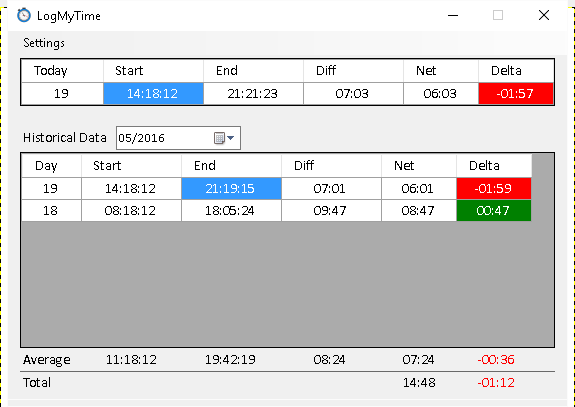
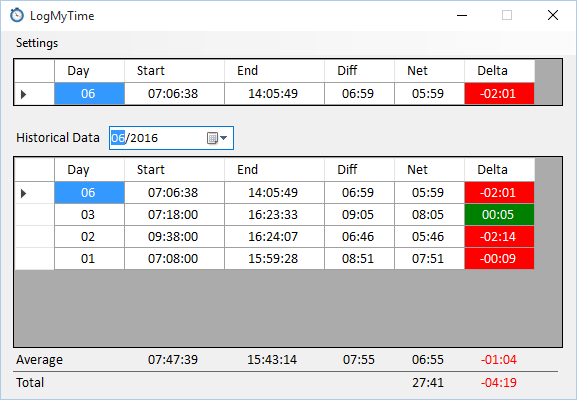
Re-adjusted mainscreen components layout. 'Add comments' feature fully functional

diff --git a/LogMyTime/View/Main.Designer.cs b/LogMyTime/View/Main.Designer.cs
@@ -47,7 +47,6 @@ namespace LogMyTime
             this.copyCellToolStripMenuItem = new System.Windows.Forms.ToolStripMenuItem();
             this.copyRowToolStripMenuItem = new System.Windows.Forms.ToolStripMenuItem();
             this.copyTableToolStripMenuItem = new System.Windows.Forms.ToolStripMenuItem();
-            this.clCommentReport = new System.Windows.Forms.DataGridViewTextBoxColumn();
             this.monthYearPicker = new System.Windows.Forms.DateTimePicker();
             this.lblHistoricalDataCaption = new System.Windows.Forms.Label();
             this.mainMenu = new System.Windows.Forms.MenuStrip();
@@ -70,6 +69,14 @@ namespace LogMyTime
             this.clDiffReport = new System.Windows.Forms.DataGridViewTextBoxColumn();
             this.clNetReport = new System.Windows.Forms.DataGridViewTextBoxColumn();
             this.clDeltaReport = new System.Windows.Forms.DataGridViewTextBoxColumn();
+            this.clCommentReport = new System.Windows.Forms.DataGridViewTextBoxColumn();
+            this.clToday = new System.Windows.Forms.DataGridViewTextBoxColumn();
+            this.clStart = new System.Windows.Forms.DataGridViewTextBoxColumn();
+            this.clEnd = new System.Windows.Forms.DataGridViewTextBoxColumn();
+            this.clDiff = new System.Windows.Forms.DataGridViewTextBoxColumn();
+            this.clNet = new System.Windows.Forms.DataGridViewTextBoxColumn();
+            this.clDelta = new System.Windows.Forms.DataGridViewTextBoxColumn();
+            this.clComment = new System.Windows.Forms.DataGridViewTextBoxColumn();
             this.popupMenu.SuspendLayout();
             ((System.ComponentModel.ISupportInitialize)(this.gridReport)).BeginInit();
             this.clipboardMenu.SuspendLayout();
@@ -154,21 +161,21 @@ namespace LogMyTime
             dataGridViewCellStyle2.SelectionForeColor = System.Drawing.SystemColors.HighlightText;
             dataGridViewCellStyle2.WrapMode = System.Windows.Forms.DataGridViewTriState.False;
             this.gridReport.DefaultCellStyle = dataGridViewCellStyle2;
-            this.gridReport.Location = new System.Drawing.Point(12, 121);
+            this.gridReport.Location = new System.Drawing.Point(12, 125);
             this.gridReport.MultiSelect = false;
             this.gridReport.Name = "gridReport";
             this.gridReport.ReadOnly = true;
             this.gridReport.RowHeadersWidthSizeMode = System.Windows.Forms.DataGridViewRowHeadersWidthSizeMode.DisableResizing;
             this.gridReport.ScrollBars = System.Windows.Forms.ScrollBars.Vertical;
             this.gridReport.SelectionMode = System.Windows.Forms.DataGridViewSelectionMode.CellSelect;
-            this.gridReport.Size = new System.Drawing.Size(576, 196);
+            this.gridReport.Size = new System.Drawing.Size(550, 192);
             this.gridReport.TabIndex = 15;
             this.gridReport.CellDoubleClick += new System.Windows.Forms.DataGridViewCellEventHandler(this.gridReport_CellDoubleClick);
             this.gridReport.CellFormatting += new System.Windows.Forms.DataGridViewCellFormattingEventHandler(this.gridReport_CellFormatting);
             this.gridReport.RowHeaderMouseClick += new System.Windows.Forms.DataGridViewCellMouseEventHandler(this.gridReport_RowHeaderMouseClick);
-            this.gridReport.KeyUp += new System.Windows.Forms.KeyEventHandler(this.gridReport_KeyUp);
             this.gridReport.RowHeaderMouseDoubleClick += new System.Windows.Forms.DataGridViewCellMouseEventHandler(this.gridReport_RowHeaderMouseDoubleClick);
             this.gridReport.RowPostPaint += new System.Windows.Forms.DataGridViewRowPostPaintEventHandler(this.gridReport_RowPostPaint);
+            this.gridReport.KeyUp += new System.Windows.Forms.KeyEventHandler(this.gridReport_KeyUp);
             // 
             // clipboardMenu
             // 
@@ -200,14 +207,6 @@ namespace LogMyTime
             this.copyTableToolStripMenuItem.Text = "Copy Table";
             this.copyTableToolStripMenuItem.Click += new System.EventHandler(this.copyTableToolStripMenuItem_Click);
             // 
-            // clCommentReport
-            // 
-            this.clCommentReport.DataPropertyName = "Comment";
-            this.clCommentReport.HeaderText = "Comment";
-            this.clCommentReport.Name = "clCommentReport";
-            this.clCommentReport.ReadOnly = true;
-            this.clCommentReport.Visible = false;
-            // 
             // monthYearPicker
             // 
             this.monthYearPicker.CustomFormat = "MM/yyyy";
@@ -233,7 +232,7 @@ namespace LogMyTime
             this.settingsToolStripMenuItem});
             this.mainMenu.Location = new System.Drawing.Point(0, 0);
             this.mainMenu.Name = "mainMenu";
-            this.mainMenu.Size = new System.Drawing.Size(601, 24);
+            this.mainMenu.Size = new System.Drawing.Size(575, 24);
             this.mainMenu.TabIndex = 21;
             this.mainMenu.Text = "menuStrip1";
             // 
@@ -262,7 +261,7 @@ namespace LogMyTime
             this.gridToday.ColumnHeadersDefaultCellStyle = dataGridViewCellStyle3;
             this.gridToday.ColumnHeadersHeightSizeMode = System.Windows.Forms.DataGridViewColumnHeadersHeightSizeMode.AutoSize;
             this.gridToday.Columns.AddRange(new System.Windows.Forms.DataGridViewColumn[] {
-            this.clDay,
+            this.clToday,
             this.clStart,
             this.clEnd,
             this.clDiff,
@@ -285,7 +284,7 @@ namespace LogMyTime
             this.gridToday.RowTemplate.ReadOnly = true;
             this.gridToday.ScrollBars = System.Windows.Forms.ScrollBars.None;
             this.gridToday.SelectionMode = System.Windows.Forms.DataGridViewSelectionMode.CellSelect;
-            this.gridToday.Size = new System.Drawing.Size(576, 48);
+            this.gridToday.Size = new System.Drawing.Size(550, 48);
             this.gridToday.TabIndex = 24;
             this.gridToday.CellDoubleClick += new System.Windows.Forms.DataGridViewCellEventHandler(this.gridToday_CellDoubleClick);
             this.gridToday.CellFormatting += new System.Windows.Forms.DataGridViewCellFormattingEventHandler(this.gridToday_CellFormatting);
@@ -318,13 +317,13 @@ namespace LogMyTime
             this.panel1.Location = new System.Drawing.Point(12, 340);
             this.panel1.Margin = new System.Windows.Forms.Padding(1);
             this.panel1.Name = "panel1";
-            this.panel1.Size = new System.Drawing.Size(535, 1);
+            this.panel1.Size = new System.Drawing.Size(545, 1);
             this.panel1.TabIndex = 27;
             // 
             // lblAvgStart
             // 
             this.lblAvgStart.AutoSize = true;
-            this.lblAvgStart.Location = new System.Drawing.Point(95, 320);
+            this.lblAvgStart.Location = new System.Drawing.Point(144, 320);
             this.lblAvgStart.Name = "lblAvgStart";
             this.lblAvgStart.Size = new System.Drawing.Size(58, 17);
             this.lblAvgStart.TabIndex = 28;
@@ -334,7 +333,7 @@ namespace LogMyTime
             // lblAvgEnd
             // 
             this.lblAvgEnd.AutoSize = true;
-            this.lblAvgEnd.Location = new System.Drawing.Point(194, 320);
+            this.lblAvgEnd.Location = new System.Drawing.Point(243, 320);
             this.lblAvgEnd.Name = "lblAvgEnd";
             this.lblAvgEnd.Size = new System.Drawing.Size(58, 17);
             this.lblAvgEnd.TabIndex = 29;
@@ -344,7 +343,7 @@ namespace LogMyTime
             // lblAvgDiff
             // 
             this.lblAvgDiff.AutoSize = true;
-            this.lblAvgDiff.Location = new System.Drawing.Point(303, 320);
+            this.lblAvgDiff.Location = new System.Drawing.Point(339, 320);
             this.lblAvgDiff.Name = "lblAvgDiff";
             this.lblAvgDiff.Size = new System.Drawing.Size(40, 17);
             this.lblAvgDiff.TabIndex = 31;
@@ -354,7 +353,7 @@ namespace LogMyTime
             // lblAvgNet
             // 
             this.lblAvgNet.AutoSize = true;
-            this.lblAvgNet.Location = new System.Drawing.Point(392, 320);
+            this.lblAvgNet.Location = new System.Drawing.Point(408, 320);
             this.lblAvgNet.Name = "lblAvgNet";
             this.lblAvgNet.Size = new System.Drawing.Size(40, 17);
             this.lblAvgNet.TabIndex = 32;
@@ -364,7 +363,7 @@ namespace LogMyTime
             // lblAvgDelta
             // 
             this.lblAvgDelta.AutoSize = true;
-            this.lblAvgDelta.Location = new System.Drawing.Point(467, 320);
+            this.lblAvgDelta.Location = new System.Drawing.Point(477, 320);
             this.lblAvgDelta.Name = "lblAvgDelta";
             this.lblAvgDelta.Size = new System.Drawing.Size(40, 17);
             this.lblAvgDelta.TabIndex = 33;
@@ -374,7 +373,7 @@ namespace LogMyTime
             // lblTotalNet
             // 
             this.lblTotalNet.AutoSize = true;
-            this.lblTotalNet.Location = new System.Drawing.Point(392, 343);
+            this.lblTotalNet.Location = new System.Drawing.Point(408, 343);
             this.lblTotalNet.Name = "lblTotalNet";
             this.lblTotalNet.Size = new System.Drawing.Size(40, 17);
             this.lblTotalNet.TabIndex = 34;
@@ -384,7 +383,7 @@ namespace LogMyTime
             // lblTotalDelta
             // 
             this.lblTotalDelta.AutoSize = true;
-            this.lblTotalDelta.Location = new System.Drawing.Point(467, 343);
+            this.lblTotalDelta.Location = new System.Drawing.Point(477, 343);
             this.lblTotalDelta.Name = "lblTotalDelta";
             this.lblTotalDelta.Size = new System.Drawing.Size(40, 17);
             this.lblTotalDelta.TabIndex = 35;
@@ -408,7 +407,7 @@ namespace LogMyTime
             this.clDayReport.ReadOnly = true;
             this.clDayReport.Resizable = System.Windows.Forms.DataGridViewTriState.False;
             this.clDayReport.SortMode = System.Windows.Forms.DataGridViewColumnSortMode.NotSortable;
-            this.clDayReport.Width = 60;
+            this.clDayReport.Width = 70;
             // 
             // clStartReport
             // 
@@ -436,6 +435,7 @@ namespace LogMyTime
             this.clDiffReport.ReadOnly = true;
             this.clDiffReport.Resizable = System.Windows.Forms.DataGridViewTriState.False;
             this.clDiffReport.SortMode = System.Windows.Forms.DataGridViewColumnSortMode.NotSortable;
+            this.clDiffReport.Width = 70;
             // 
             // clNetReport
             // 
@@ -445,7 +445,7 @@ namespace LogMyTime
             this.clNetReport.ReadOnly = true;
             this.clNetReport.Resizable = System.Windows.Forms.DataGridViewTriState.False;
             this.clNetReport.SortMode = System.Windows.Forms.DataGridViewColumnSortMode.NotSortable;
-            this.clNetReport.Width = 75;
+            this.clNetReport.Width = 70;
             // 
             // clDeltaReport
             // 
@@ -455,13 +455,68 @@ namespace LogMyTime
             this.clDeltaReport.ReadOnly = true;
             this.clDeltaReport.Resizable = System.Windows.Forms.DataGridViewTriState.False;
             this.clDeltaReport.SortMode = System.Windows.Forms.DataGridViewColumnSortMode.NotSortable;
-            this.clDeltaReport.Width = 75;
+            this.clDeltaReport.Width = 70;
+            // 
+            // clCommentReport
+            // 
+            this.clCommentReport.DataPropertyName = "Comment";
+            this.clCommentReport.HeaderText = "Comment";
+            this.clCommentReport.Name = "clCommentReport";
+            this.clCommentReport.ReadOnly = true;
+            this.clCommentReport.Visible = false;
+            // 
+            // clToday
+            // 
+            this.clToday.HeaderText = "Day";
+            this.clToday.Name = "clToday";
+            this.clToday.ReadOnly = true;
+            this.clToday.Width = 70;
+            // 
+            // clStart
+            // 
+            this.clStart.HeaderText = "Start";
+            this.clStart.Name = "clStart";
+            this.clStart.ReadOnly = true;
+            // 
+            // clEnd
+            // 
+            this.clEnd.HeaderText = "End";
+            this.clEnd.Name = "clEnd";
+            this.clEnd.ReadOnly = true;
+            // 
+            // clDiff
+            // 
+            this.clDiff.HeaderText = "Diff";
+            this.clDiff.Name = "clDiff";
+            this.clDiff.ReadOnly = true;
+            this.clDiff.Width = 70;
+            // 
+            // clNet
+            // 
+            this.clNet.HeaderText = "Net";
+            this.clNet.Name = "clNet";
+            this.clNet.ReadOnly = true;
+            this.clNet.Width = 70;
+            // 
+            // clDelta
+            // 
+            this.clDelta.HeaderText = "Delta";
+            this.clDelta.Name = "clDelta";
+            this.clDelta.ReadOnly = true;
+            this.clDelta.Width = 70;
+            // 
+            // clComment
+            // 
+            this.clComment.HeaderText = "Comment";
+            this.clComment.Name = "clComment";
+            this.clComment.ReadOnly = true;
+            this.clComment.Visible = false;
             // 
             // MainView
             // 
             this.AutoScaleDimensions = new System.Drawing.SizeF(7F, 15F);
             this.AutoScaleMode = System.Windows.Forms.AutoScaleMode.Font;
-            this.ClientSize = new System.Drawing.Size(601, 368);
+            this.ClientSize = new System.Drawing.Size(575, 368);
             this.Controls.Add(this.lblTotalDelta);
             this.Controls.Add(this.lblTotalNet);
             this.Controls.Add(this.lblAvgDelta);
@@ -534,7 +589,7 @@ namespace LogMyTime
         private System.Windows.Forms.DataGridViewTextBoxColumn clNetReport;
         private System.Windows.Forms.DataGridViewTextBoxColumn clDeltaReport;
         private System.Windows.Forms.DataGridViewTextBoxColumn clCommentReport;
-        private System.Windows.Forms.DataGridViewTextBoxColumn clDay;
+        private System.Windows.Forms.DataGridViewTextBoxColumn clToday;
         private System.Windows.Forms.DataGridViewTextBoxColumn clStart;
         private System.Windows.Forms.DataGridViewTextBoxColumn clEnd;
         private System.Windows.Forms.DataGridViewTextBoxColumn clDiff;

diff --git a/LogMyTime/Presenter/MainPresenter.cs b/LogMyTime/Presenter/MainPresenter.cs
@@ -162,6 +162,7 @@ namespace LogMyTime.Presenter
             StringBuilder sb = new StringBuilder();
             if (column == -1)
             {
+                sb.AppendLine("Day\tStart\tEnd\tDiff\tNet\tDelta\tComment");
                 if (row == -1)
                 {
                     foreach (DayInfoRow day in view.DataSet)

diff --git a/LogMyTime/Model/DayInfoRow.cs b/LogMyTime/Model/DayInfoRow.cs
@@ -37,7 +37,8 @@ namespace LogMyTime.Model
                  + this.End + delimiter
                  + this.Difference + delimiter
                  + this.Net + delimiter
-                 + this.Delta;
+                 + this.Delta + delimiter
+                 + this.Comment;
         }
     }
 }

diff --git a/LogMyTime/View/Main.cs b/LogMyTime/View/Main.cs
@@ -79,6 +79,7 @@ namespace LogMyTime
                 todayRow.Cells[4].Value = value.Net;
                 todayRow.Cells[5].Value = value.Delta;
                 todayRow.Cells[6].Value = value.Comment;
+                gridToday.Refresh();
             }
         }
 
